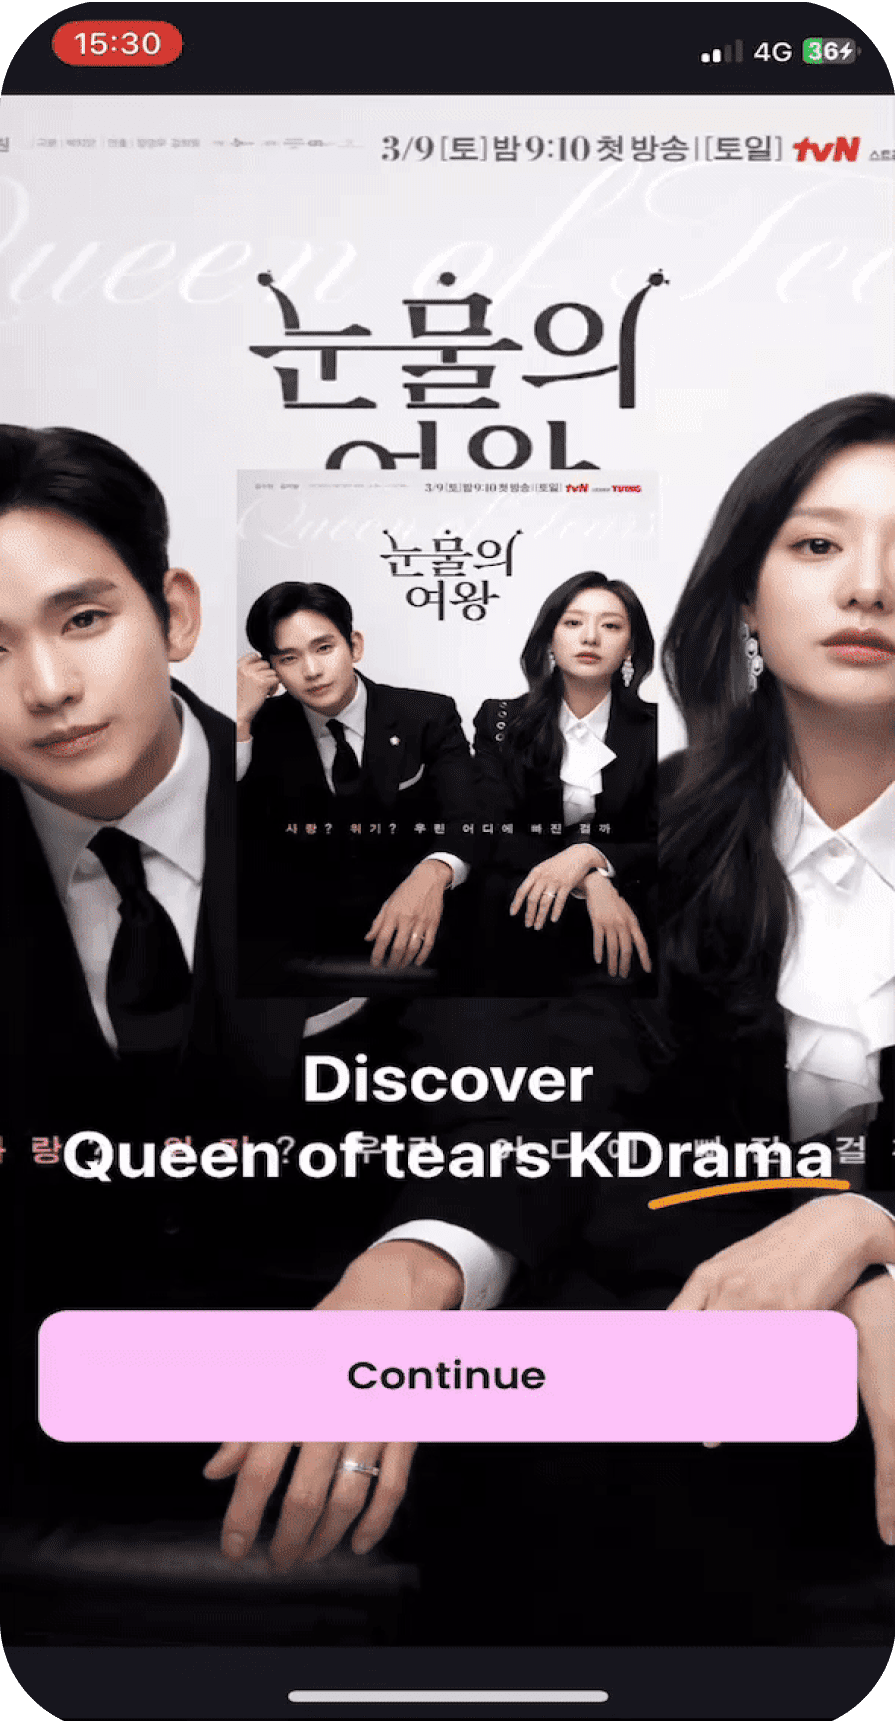
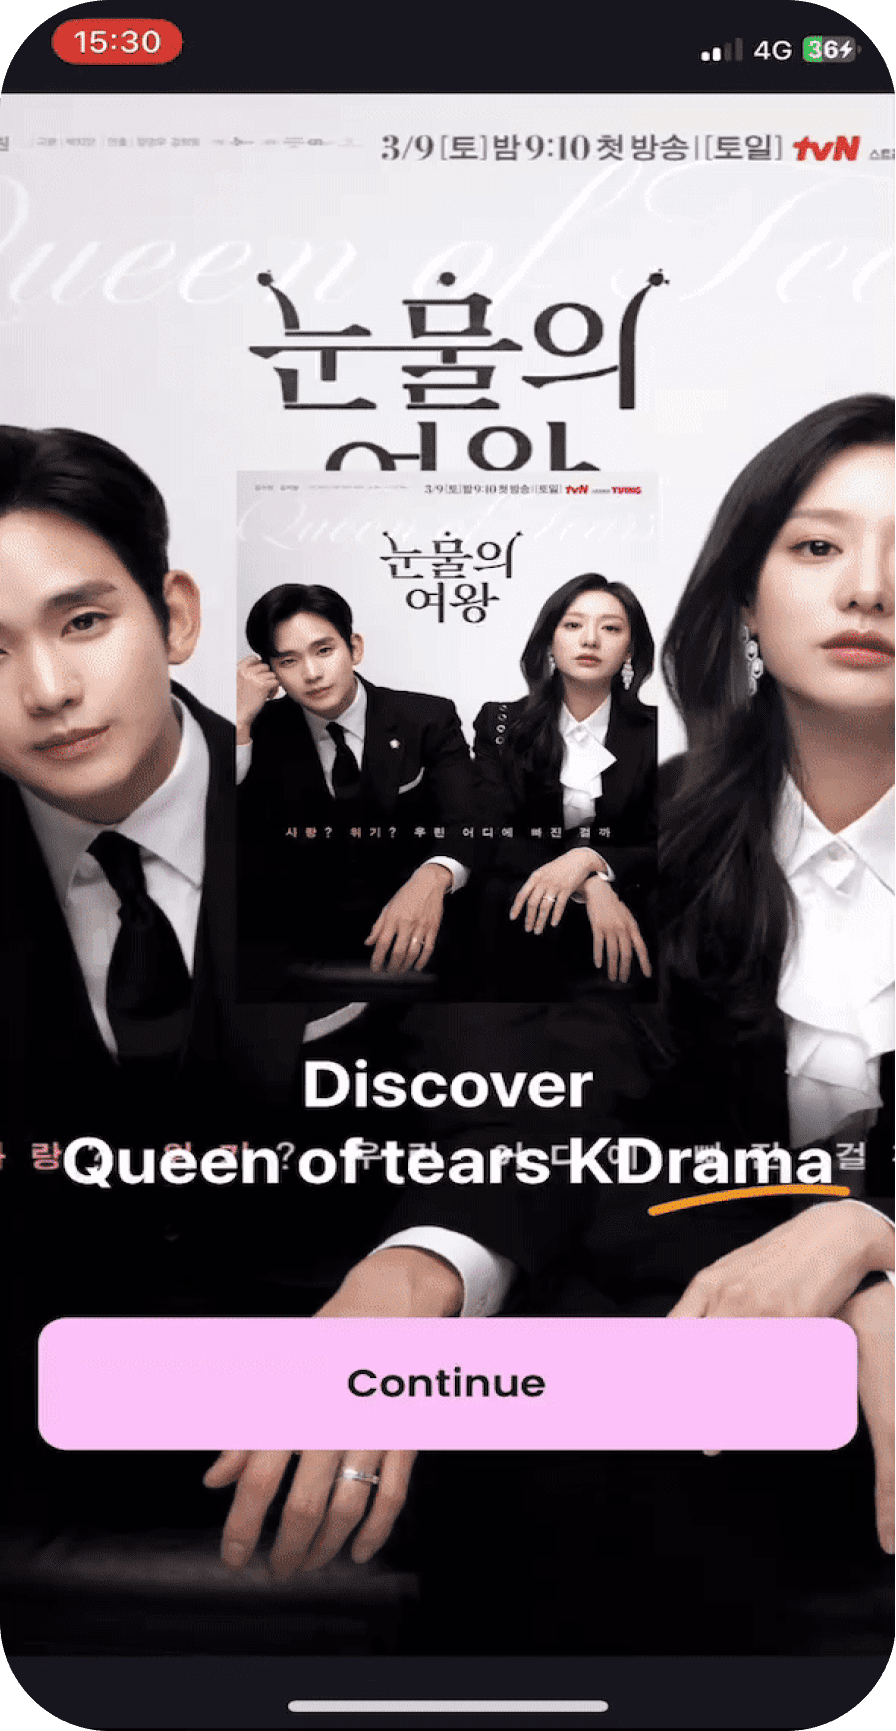
add work photo

diff --git a/src/app/(root)/work/expo/QueenDemo.tsx b/src/app/(root)/work/expo/QueenDemo.tsx
@@ -12,25 +12,25 @@ const uberData = [
   {
     id: 1,
     name: 'Uber',
-    image: template.uberOne,
+    image: template.quOne,
     gifUrl:'',
   },
   {
     id: 2,
     name: 'Uber2',
-    image: template.uberTwo,
+    image: template.quTwo,
     gifUrl: '',
   },
   {
     id: 3,
     name: 'Uber3',
-    image: template.uberThree,
+    image: template.quThree,
     gifUrl: '',
   },
 ]
 
 
-const UberDemo = () => {
+const QueenDemo = () => {
   const [selectedPhoneId, setSelectedPhoneId] = useState<number>(1);
 
   const handleSelectedPhone = (id: number) => {
@@ -42,8 +42,8 @@ const UberDemo = () => {
       <div className='w-full md:px-20 py-5 space-y-5'>
         <div className='w-full flex flex-col rounded-2xl p-5 space-y-3 shadow-lg'>
           <div className='w-full flex flex-col gap-3'>
-            <h1 className='text-3xl sm:text-5xl font-bold'>Ucar.</h1>
-            <p className='text-xl font-medium'>Let's take taxi</p>
+            <h1 className='text-3xl sm:text-5xl font-bold'>Drama Video.</h1>
+            <p className='text-xl font-medium'>Follow your like video</p>
           </div>
 
           <div className='flex overflow-x-scroll custom-scrollbar whitespace-nowrap'>
@@ -93,4 +93,4 @@ const UberDemo = () => {
   )
 }
 
-export default UberDemo
+export default QueenDemo

diff --git a/src/lib/icon.ts b/src/lib/icon.ts
@@ -24,9 +24,16 @@ import app from "../../public/app.png";
 import duoOne from "../../public/template/duo1.png";
 import duoTwo from "../../public/template/duo2.png";
 import duoThree from "../../public/template/duo3.png";
+
 import uberOne from "../../public/template/uber1.jpg";
 import uberTwo from "../../public/template/uber2.jpg";
 import uberThree from "../../public/template/uber3.jpg";
+import quOne from "../../public/template/qu1.png";
+import quTwo from "../../public/template/qu2.png";
+import quThree from "../../public/template/qu3.png";
+
+import appleStore from "../../public/media/applestore.svg";
+import googlePlay from "../../public/media/googleplay.svg";
 
 export const template = {
   duoOne,
@@ -35,6 +42,9 @@ export const template = {
   uberOne,
   uberTwo,
   uberThree,
+  quOne,
+  quTwo,
+  quThree
 }
 
 export const icons = {
@@ -43,6 +53,8 @@ export const icons = {
   drama,
   phone,
   email,
+  appleStore,
+  googlePlay,
 }
 
 export const frontend = {

diff --git a/src/app/(root)/work/ExpoSticky.tsx b/src/app/(root)/work/ExpoSticky.tsx
@@ -1,3 +1,4 @@
+import QueenDemo from "./expo/QueenDemo"
 import UberDemo from "./expo/UberDemo"
 
 
@@ -9,8 +10,8 @@ const appProject = [
   },
   {
     id:2,
-    title: 'Tear of queen App',
-    path: <UberDemo />
+    title: 'Drama App',
+    path: <QueenDemo />
   },
 ]
 
